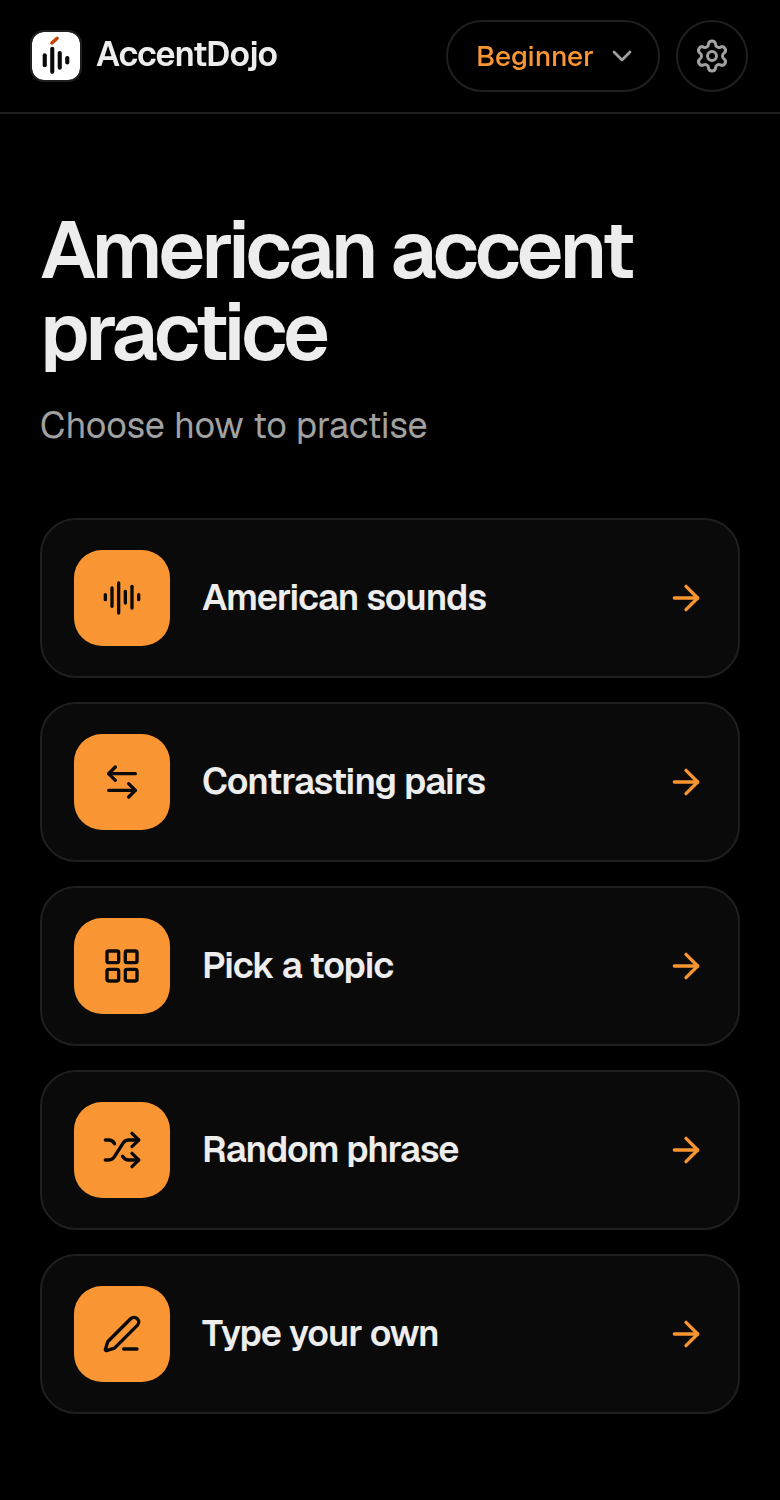
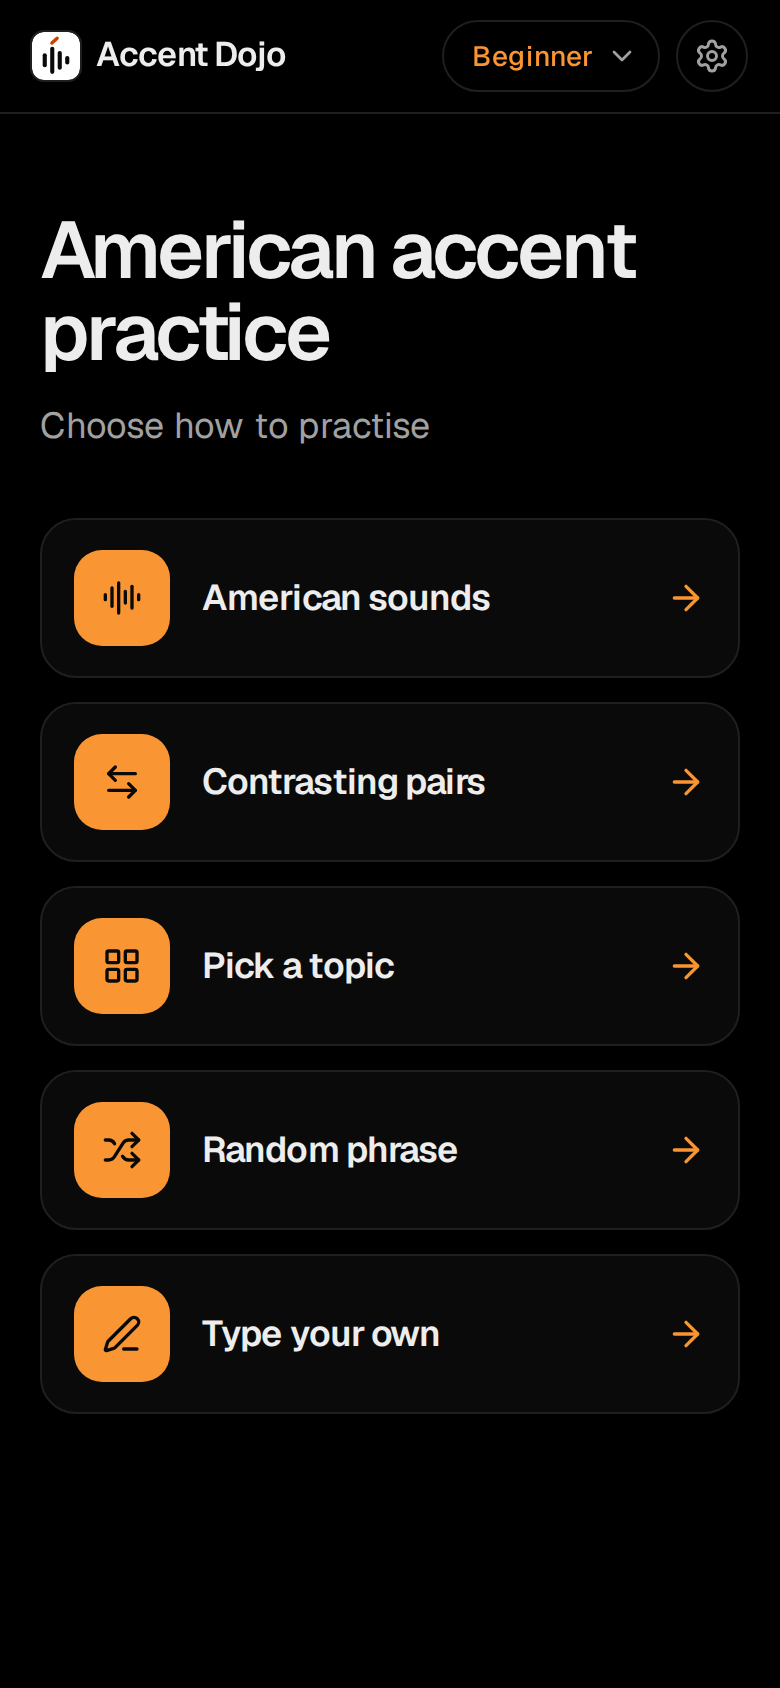
README in simple English, new screenshots
Shorter sentences, American spelling, a list of the five ways to
practice, phone steps as a numbered list, a separate "Run it all the
time" section, and a note that the app is for my family and that
changes are welcome.

New screenshots at 390x844: the record button is no longer cut off,
and the result no longer shows the old "like Russian р" hint.

diff --git a/README.md b/README.md
@@ -1,33 +1,45 @@
 # Accent Dojo
 
-An app for practising an American accent. It plays a phrase in an American voice, you say
-it back, and it gives you a score from 0 to 100 and shows which words and sounds to fix.
+An app for practicing an American accent. It plays a phrase in an American voice. You say
+the phrase back. Then the app gives you a score from 0 to 100 and shows the words and sounds
+to fix.
 
 You can run it on your own computer, or host it on a server and use it from your phone. It
 runs on an ordinary CPU.
 
+I built it for myself and my family. If you want to change or add something, you are
+welcome to do it (see Development).
+
 <p>
-  <img src="docs/home.png" width="260" alt="Home screen: five ways to practise">
-  <img src="docs/result.png" width="260" alt="Result: score, flagged word and the swapped sound">
+  <img src="docs/home.png" width="260" alt="Home screen: five ways to practice">
+  <img src="docs/result.png" width="260" alt="Result: score, flagged words and the swapped sound">
 </p>
 
-## What you can practise
+## What you can practice
 
-Phrases for everyday situations, word pairs like sheep and ship, each of the 47 American
-sounds on its own, random phrases, or any text you type. There are three levels: beginner,
-intermediate and advanced. Each sound has a short guide on how to make it.
+You can practice in five ways:
+
+- Phrases for everyday situations
+- Word pairs, like "sheep" and "ship"
+- Each of the 47 American sounds alone
+- Random phrases
+- Any text that you type
+
+There are three levels: beginner, intermediate and advanced. Each sound has a short guide on
+how to make it.
 
 After each try you see your score, the words you got wrong and what went wrong in each one.
-A score of 100 means you sounded as clear as the app's voice. Treat the score as a rough
-guide: it can be off by about 8 points and it misses some wrong sounds.
+A score of 100 means you sounded as clear as the app's voice. The score is not exact. It can
+be wrong by about 8 points, and it does not find all wrong sounds.
 
-It works on phones, and you can install it on the home screen like an app.
+It works on phones. You can add it to the home screen of your phone.
 
 ## Install
 
 It works on Linux and macOS. You need Python 3.10 to 3.12, Node 20.19 or newer, `ffmpeg` and
 about 6 GB of free disk space. On a Mac, `brew install python@3.11 node ffmpeg` installs them.
-Nobody has tried Windows yet; running the same steps inside WSL 2 should work.
+I did not test Windows. The same steps can work in WSL 2, but I did not try
+it.
 
 ```sh
 # backend
@@ -46,29 +58,32 @@ cd ../backend
 .venv/bin/uvicorn accentdojo.app:app --host 127.0.0.1 --port 8000
 ```
 
-Then open http://127.0.0.1:8000. The first start downloads about 2.7 GB of models and then
-spends about 45 minutes on a 12-core CPU preparing the voice for every phrase. You can
-practise while it works.
+Then open http://127.0.0.1:8000. When you start the app the first time, it downloads about
+2.7 GB of models. Then it makes the audio for every phrase. This takes about 45 minutes on a
+12-core CPU. You can practice while it works.
 
 ## Use it from your phone
 
-Browsers only let a page use the microphone on `localhost` or over HTTPS. To use the app from
-another device, put an HTTPS proxy such as Caddy, nginx or `tailscale serve` in front of port
-8000, and set `ACCENTDOJO_PASSWORD` so that strangers can't use it.
+Browsers only let a page use the microphone over HTTPS, or on `localhost`. To use the app
+from your phone, do these steps:
 
-There is an example systemd unit in `deploy/accentdojo-backend.service`. It expects the code in
-`~/gh/accentdojo` and won't download anything, so start the backend by hand once before you
-enable it.
+1. Put an HTTPS proxy in front of port 8000, for example Caddy, nginx or Tailscale.
+2. Set `ACCENTDOJO_PASSWORD`. Other people cannot use the app without it.
+
+## Run it all the time
+
+`deploy/accentdojo-backend.service` is an example systemd unit. It expects the code in
+`~/gh/accentdojo`. It does not download the models. Start the backend by hand one time before you enable the unit.
 
 These environment variables are all optional:
 
 | Variable | Default | What it does |
 |---|---|---|
-| `ACCENTDOJO_PASSWORD` | unset | Shared password. Changing it signs everyone out. |
-| `ACCENTDOJO_KEEP_TAKES` | off | `1` saves each recording and its result in `backend/.cache/takes/`. Otherwise recordings are deleted after scoring. |
+| `ACCENTDOJO_PASSWORD` | unset | Shared password. If you change it, everyone must sign in again. |
+| `ACCENTDOJO_KEEP_TAKES` | off | `1` saves each recording and its result in `backend/.cache/takes/`. If it is off, the app deletes each recording after it gives the score. |
 | `ACCENTDOJO_VOICE` | `af_heart` | Kokoro voice used for the phrases. |
 | `ACCENTDOJO_TORCH_THREADS` | `6` | Number of CPU threads. |
-| `VITE_SOURCE_URL` | this repository | Source link shown in Settings, set when you build. If you change the code, point it at your copy (see Licence). |
+| `VITE_SOURCE_URL` | this repository | The link to the source code in Settings. Set it before you build the frontend. If you change the code, point it at your copy (see License). |
 
 ## Development
 
@@ -78,13 +93,14 @@ These environment variables are all optional:
 (cd frontend && VITE_API=mock npm run dev)   # the UI with a fake backend and made-up scores
 ```
 
-Claude Code, an AI coding agent, wrote most of the code and all of the phrases. I designed
+Claude Code wrote most of the code and all of the phrases. I designed
 the app and the scoring, tested it on my own voice and reviewed the changes.
 
-If the app marks a word wrong when it was right, or misses a mistake, please open an issue.
-Please also open one before you send a big pull request.
+Changes are welcome. For a small fix, send a pull request. For a big change, open an issue
+first, so that we can talk about it. If the app marks a word wrong when it was right, or
+misses a mistake, please open an issue too.
 
-## Licence
+## License
 
 Copyright (C) 2026 Ilia Kolesnikov.
 
@@ -94,5 +110,5 @@ changed version for other people, you have to give them your source code.
 
 The phrases in `content/` are [CC0 1.0](content/LICENSE).
 
-Licences for other software, models and fonts are in
+Licenses for other software, models and fonts are in
 [THIRD_PARTY_LICENSES.md](THIRD_PARTY_LICENSES.md).
